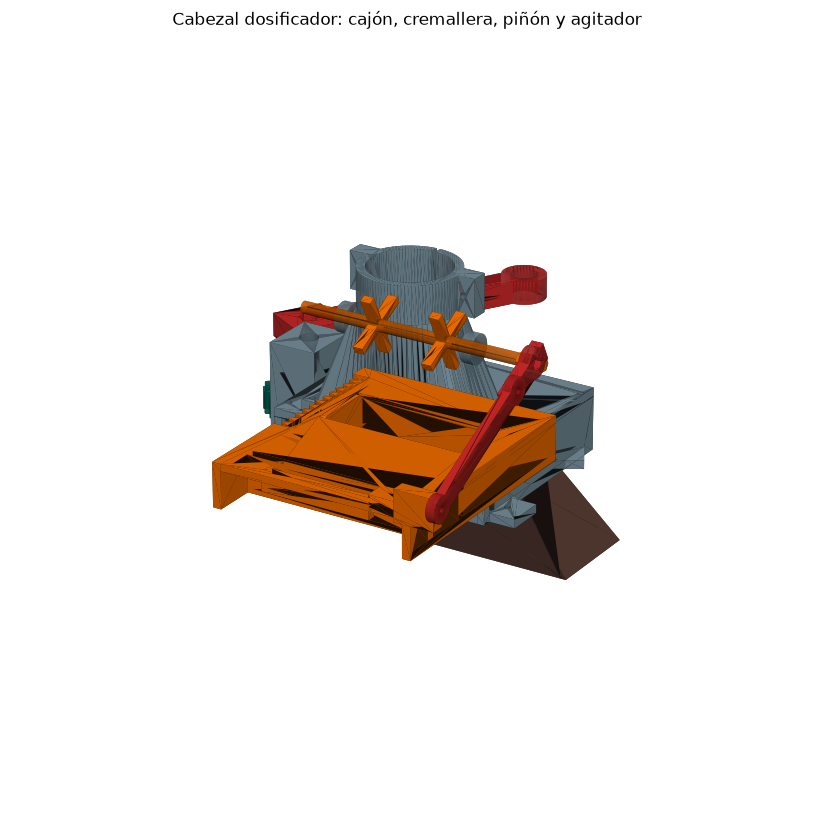
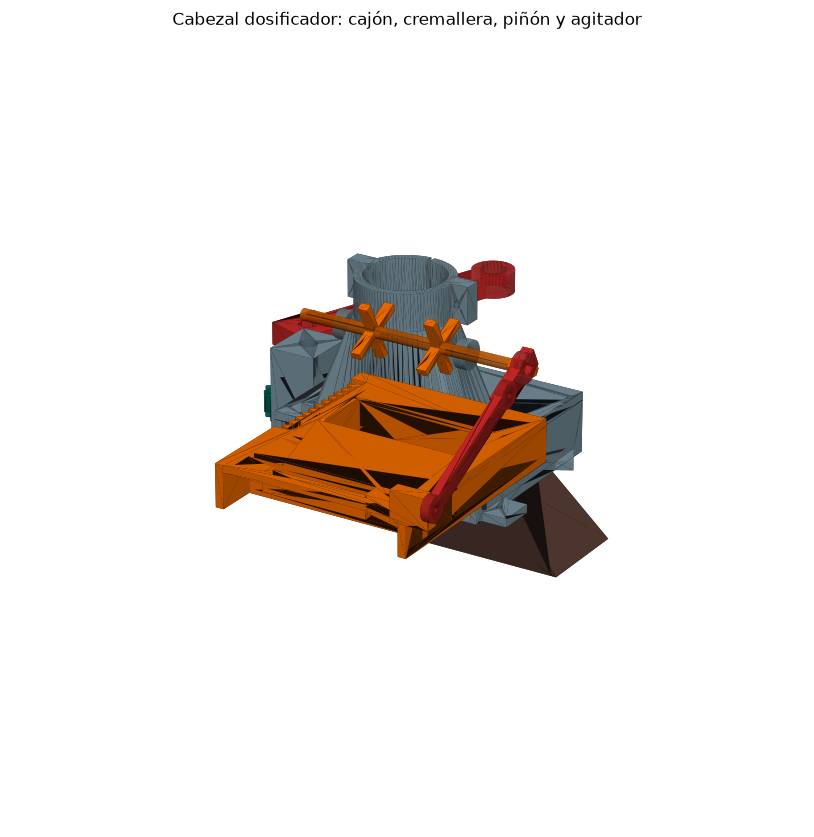
Dispensador YT0101: el barrido de la palanca cae en el sector libre entre columnas
La palanca mide 180 mm y gira en torno a un eje que está a 95 mm del centro
del aparato: su punta alcanza un radio de 275 mm, más que de sobra para
golpear dos de las tres columnas. Ahora el barrido arranca a 70° y termina a
193°, que es el hueco que dejan las columnas (a 90°, 210° y 330°).

La prueba nueva V13 barre la palanca en 13 posiciones contra columnas y
anillos. Comprobado que no es una prueba vacía: con el brazo montado a 200°
detecta 3661 mm³ de solape y a 320°, 527 mm³.

El manual avisa de esto en el paso de montaje: el hexágono del eje admite
varias posiciones y solo una es la buena.

Verificación: 16 pruebas, 0 fallas.

Claude-Session: https://claude.ai/code/session_01QuNpHEVPcv9jswwxVwCvVM

Changed region(s): [[0.2457, 0.2796, 0.7371, 0.7145], [0.7371, 0.6213, 0.7678, 0.6523], [0.7064, 0.5902, 0.7371, 0.6213]]

diff --git a/pipeline/verifica_dispensador.py b/pipeline/verifica_dispensador.py
@@ -39,6 +39,7 @@ sys.path.insert(0, str(Path(__file__).parent))
 import lib_solidos as S
 import gen_dispensador as G
 import ens_dispensador as E
+import ens_dispensador as EN
 from lib_audit import audit, load_state, now_iso, project_dir, save_state, set_gate
 
 E_PLA_MPA = 3500.0        # módulo elástico típico del PLA impreso (orden de magnitud)
@@ -263,6 +264,28 @@ def verificar(proj: Path) -> dict:
            f"con {round(vuelco_N)} N de empuje lateral el conjunto vuelca: la escuadra de muro "
            "(est_escuadra_muro) es OBLIGATORIA en la unidad de alimento")
 
+    # ---------------- V13 la palanca barre sin golpear la estructura --------
+    columnas = [m for _, m in EN.estructura(P, C, piezas, C["z_anillo_alimento"],
+                                            mensulas_z=C["z_canal_base"] + 18.0)[1]]
+    otras = [m for n, m in EN.estructura(P, C, piezas, C["z_anillo_alimento"],
+                                         mensulas_z=C["z_canal_base"] + 18.0)[0]]
+    peor_p, donde = 0.0, None
+    for k in range(13):
+        ang = C["palanca_ang_cerrado"] - 90.0 + C["palanca_barrido_deg"] * k / 12.0
+        pal = EN._t(piezas["ali_palanca"], at=(-C["x_pinon"], 0, C["z_pinon"] + 48), rz=ang)
+        for j, obst in enumerate(columnas + otras):
+            v = _vol_interseccion(pal, obst)
+            if v > peor_p:
+                peor_p, donde = v, {"paso": k, "angulo_deg": round(ang + 90, 1), "obstaculo": j}
+    prueba("V13", "La palanca barre sin golpear columnas ni anillos",
+           "PASA" if peor_p <= tol else "FALLA",
+           {"solape_maximo_mm3": round(peor_p, 1), "primer_choque": donde,
+            "barrido_deg": [C["palanca_ang_cerrado"], C["palanca_ang_abierto"]],
+            "columnas_a_deg": [90, 210, 330]},
+           f"solape ≤ {tol} mm³ en los 13 pasos del barrido",
+           "recolocar palanca_ang_cerrado para que el barrido caiga en el hueco entre columnas, "
+           "o acortar palanca_largo")
+
     # ---------------- V12 el biela-manivela del agitador cierra --------------
     r, Lb = C["manivela_radio"], C["biela_largo"]
     angs, errores = [], []
@@ -287,7 +310,6 @@ def verificar(proj: Path) -> dict:
            "recalcular manivela_radio y biela_largo desde las posiciones del pasador")
 
     # ---------------- V11 el cabezal cuelga de verdad de las columnas --------
-    import ens_dispensador as EN
     partes = dict(EN.conjunto_alimento(P, C, piezas))
     canal = partes["ali_canal_base"]
     pq = trimesh.proximity.ProximityQuery(canal)

diff --git a/pipeline/doc_dispensador.py b/pipeline/doc_dispensador.py
@@ -184,6 +184,10 @@ def memoria(P, C, hechos, ver) -> str:
       f"{C['carrera']:.0f} mm — exactamente la carrera necesaria (cavidad {do['cavidad_y']:.0f} + "
       f"tabique {do['sello_tabique']:.0f}).")
     A(f"- Ventaja mecánica de la palanca: **{C['ventaja_palanca']:.1f}:1**.")
+    A(f"- La palanca barre entre {C['palanca_ang_cerrado']:.0f}° y {C['palanca_ang_abierto']:.0f}°, dentro del")
+    A("  sector libre que dejan las tres columnas (que están a 90°, 210° y 330°).")
+    A("  No es una elección estética: con el brazo montado 130° más allá, el barrido")
+    A("  golpea la columna trasera. La prueba V13 lo comprueba en 13 posiciones.")
     A("")
     A("La cremallera va embutida en el flanco del cajón: las puntas de los dientes")
     A(f"quedan {do['cremallera_empotre']:.0f} mm por dentro del plano de deslizamiento, así el")
@@ -344,7 +348,11 @@ def ensamble(P, C, hechos, idx) -> str:
     A("3. Tapa con `ali_canal_tapa` y aprieta los cuatro M4×30.")
     A("4. Enfila `ali_eje_pinon` por la torre, monta `ali_pinon` a media altura")
     A("   (tiene que engranar con la cremallera del cajón) y fija con el pasador Ø3.")
-    A("5. Encaja `ali_palanca` en el hexágono superior del eje.")
+    A(f"5. Encaja `ali_palanca` en el hexágono superior del eje **apuntando al sector")
+    A(f"   libre entre columnas** (con el cajón dentro debe quedar a unos "
+      f"{C['palanca_ang_cerrado']:.0f}° del")
+    A("   frente, girando hacia la izquierda al tirar). Si la montas en otra posición")
+    A("   del hexágono, el brazo golpea una columna a mitad de barrido.")
     A(f"6. Mueve la palanca de tope a tope: el cajón debe recorrer {C['carrera']:.0f} mm y la")
     A("   cavidad quedar exactamente bajo la boca de carga en un extremo y sobre la")
     A("   de descarga en el otro.")

diff --git a/pipeline/ens_dispensador.py b/pipeline/ens_dispensador.py
@@ -155,8 +155,8 @@ def conjunto_alimento(P, C, piezas):
         ("ali_pinon", _color(_t(piezas["ali_pinon"], at=(-C["x_pinon"], 0, C["z_pinon"])), S.COLORES["engranaje"])),
         ("ali_eje_pinon", _color(_t(piezas["ali_eje_pinon"], at=(-C["x_pinon"], 0, C["z_pinon"] + 10)),
                                  S.COLORES["engranaje"])),
-        ("ali_palanca", _color(_t(piezas["ali_palanca"], at=(-C["x_pinon"], 0, C["z_pinon"] + 48), rz=-30),
-                               S.COLORES["palanca"])),
+        ("ali_palanca", _color(_t(piezas["ali_palanca"], at=(-C["x_pinon"], 0, C["z_pinon"] + 48),
+                                  rz=C["palanca_ang_cerrado"] - 90.0), S.COLORES["palanca"])),
         ("ali_chute", _color(_t(piezas["ali_chute"], at=(0, C["y_descarga"], z0)), S.COLORES["bandeja"])),
         ("est_collar_cuello_a", _color(_t(piezas["est_collar_cuello"], at=(0, 0, C["z_labio_alimento"] + 14)),
                                        S.COLORES["estructura"])),
@@ -258,7 +258,7 @@ def animacion(P, C, piezas, destino: Path, cuadros: int = 16) -> Path:
         cajon = _color(_t(piezas["ali_corredera"],
                           at=(0, C["y_carga"] + avance - y_cav, C["z_deslizamiento"])),
                        S.COLORES["rotor"])
-        ang = -C["palanca_barrido_deg"] / 2 + f * C["palanca_barrido_deg"]
+        ang = C["palanca_ang_cerrado"] - 90.0 + f * C["palanca_barrido_deg"]
         palanca = _color(_t(piezas["ali_palanca"], at=(-C["x_pinon"], 0, C["z_pinon"] + 48),
                             rz=ang), S.COLORES["palanca"])
         # la croqueta que va en la cavidad, dibujada como bloque testigo

diff --git a/pipeline/gen_dispensador.py b/pipeline/gen_dispensador.py
@@ -108,6 +108,12 @@ def calculos(P: dict) -> dict:
     C["x_linea_primitiva"] = round(C["corredera_ancho"] / 2.0
                                    - do["cremallera_empotre"] - do["modulo"], 2)
     C["x_pinon"] = round(C["x_linea_primitiva"] + C["pinon"]["dia_primitivo"] / 2.0, 2)
+    # Barrido de la palanca: tiene que caber en el hueco ENTRE columnas. Las
+    # tres columnas están a 90°, 210° y 330° vistas desde el eje del aparato;
+    # desde el eje del piñón (a −X) dos de ellas quedan al alcance del brazo,
+    # así que el barrido se centra en el sector libre que dejan.
+    C["palanca_ang_cerrado"] = 70.0
+    C["palanca_ang_abierto"] = round(70.0 + C["palanca_barrido_deg"], 1)
     C["y_cavidad_local"] = round(C["corredera_largo"] / 2.0 - do["frente"] - do["cavidad_y"] / 2.0, 2)
     # el piñón está fijo en y=0; la cremallera debe quedar bajo él durante TODA
     # la carrera, así que se centra en el punto medio de su recorrido

diff --git a/projects/YT0101-dispensador-canino/out/MEMORIA_DISENO.md b/projects/YT0101-dispensador-canino/out/MEMORIA_DISENO.md
@@ -1,6 +1,6 @@
 # MEMORIA DE DISEÑO — Dispensador canino YT0101
 
-Generado: 2026-07-26T07:07:37+00:00 · Capa `user` (diseño paramétrico, no medición).
+Generado: 2026-07-26T07:11:06+00:00 · Capa `user` (diseño paramétrico, no medición).
 Cada cota nace de `input/params.json`; cada dato externo está citado en
 `input/web_facts.json` con URL, fecha de acceso y cita textual.
 
@@ -114,6 +114,10 @@ rango de flujo másico: [angulo-pared-tolva-DEM-pellets](https://www.mdpi.com/20
   es manual y va a entrar polvo de croqueta: [gear_backlash_flanco](https://kingroon.com/blogs/3d-printing-guides/how-to-get-perfect-3d-printed-gears) — «a suitable backlash value could be anywhere between 0.18–0.3mm... a clearance of around 0.1–0.2 mm is a good starting point between mating gear teeth».
 - Un barrido de palanca de **123°** desplaza el cajón 59 mm — exactamente la carrera necesaria (cavidad 45 + tabique 14).
 - Ventaja mecánica de la palanca: **6.5:1**.
+- La palanca barre entre 70° y 193°, dentro del
+  sector libre que dejan las tres columnas (que están a 90°, 210° y 330°).
+  No es una elección estética: con el brazo montado 130° más allá, el barrido
+  golpea la columna trasera. La prueba V13 lo comprueba en 13 posiciones.
 
 La cremallera va embutida en el flanco del cajón: las puntas de los dientes
 quedan 2 mm por dentro del plano de deslizamiento, así el
@@ -185,7 +189,7 @@ vez de esconderse.
 
 ## 10. Resultado de la verificación
 
-**PASA_CON_ADVERTENCIAS** — 15 pruebas, 0 fallas, 2 advertencias (detalle completo en `VERIFICACION.md`).
+**PASA_CON_ADVERTENCIAS** — 16 pruebas, 0 fallas, 2 advertencias (detalle completo en `VERIFICACION.md`).
 
 | | Prueba | Resultado |
 |---|---|---|
@@ -201,6 +205,7 @@ vez de esconderse.
 | V7b | Cuello del bidón (abertura circular) sobre el criterio anti-arco | **ADVERTENCIA** |
 | V8 | Voladizos dentro de lo imprimible sin soportes | **ADVERTENCIA** |
 | V9 | Columnas y anillo soportan el bidón lleno | **PASA** |
+| V13 | La palanca barre sin golpear columnas ni anillos | **PASA** |
 | V12 | El biela-manivela del agitador cierra en toda la carrera | **PASA** |
 | V11 | Las tres ménsulas alcanzan las orejas del canal | **PASA** |
 | V10 | Bebedero de nivel constante coherente (principio de Mariotte) | **PASA** |

diff --git a/projects/YT0101-dispensador-canino/out/VERIFICACION.md b/projects/YT0101-dispensador-canino/out/VERIFICACION.md
@@ -1,8 +1,8 @@
 # Verificación funcional — YT0101-dispensador-canino
 
-Generado: 2026-07-26T07:07:31+00:00 · capa `user` (diseño, no medición).
+Generado: 2026-07-26T07:11:01+00:00 · capa `user` (diseño, no medición).
 
-**Veredicto: PASA_CON_ADVERTENCIAS** (15 pruebas, 0 fallas, 2 advertencias)
+**Veredicto: PASA_CON_ADVERTENCIAS** (16 pruebas, 0 fallas, 2 advertencias)
 
 | Prueba | Qué comprueba | Resultado |
 |---|---|---|
@@ -18,6 +18,7 @@ Generado: 2026-07-26T07:07:31+00:00 · capa `user` (diseño, no medición).
 | V7b | Cuello del bidón (abertura circular) sobre el criterio anti-arco | **ADVERTENCIA** |
 | V8 | Voladizos dentro de lo imprimible sin soportes | **ADVERTENCIA** |
 | V9 | Columnas y anillo soportan el bidón lleno | **PASA** |
+| V13 | La palanca barre sin golpear columnas ni anillos | **PASA** |
 | V12 | El biela-manivela del agitador cierra en toda la carrera | **PASA** |
 | V11 | Las tres ménsulas alcanzan las orejas del canal | **PASA** |
 | V10 | Bebedero de nivel constante coherente (principio de Mariotte) | **PASA** |
@@ -105,6 +106,13 @@ Generado: 2026-07-26T07:07:31+00:00 · capa `user` (diseño, no medición).
 - **Criterio:** factor de seguridad ≥ 3.0 en aplastamiento y pandeo
 - **Medido:** `{"carga_total_N": 205.0, "carga_por_columna_N": 68.3, "tension_MPa": 0.26, "fs_aplastamiento": 176.0, "fs_pandeo_columna_impresa": 5.0, "area_perfil_impreso_mm2": 267.3, "area_perfil_macizo_mm2": 400.0, "empuje_lateral_para_volcar_N": 72.5, "radio_base_mm": 232.2}`
 - **Acción / nota:** con 73 N de empuje lateral el conjunto vuelca: la escuadra de muro (est_escuadra_muro) es OBLIGATORIA en la unidad de alimento
+
+## V13 — La palanca barre sin golpear columnas ni anillos
+
+- **Resultado:** PASA
+- **Criterio:** solape ≤ 25.0 mm³ en los 13 pasos del barrido
+- **Medido:** `{"solape_maximo_mm3": 0.0, "primer_choque": null, "barrido_deg": [70.0, 192.9], "columnas_a_deg": [90, 210, 330]}`
+- **Acción / nota:** recolocar palanca_ang_cerrado para que el barrido caiga en el hueco entre columnas, o acortar palanca_largo
 
 ## V12 — El biela-manivela del agitador cierra en toda la carrera
 

diff --git a/projects/YT0101-dispensador-canino/out/ENSAMBLE.md b/projects/YT0101-dispensador-canino/out/ENSAMBLE.md
@@ -1,6 +1,6 @@
 # ARMADO, CALIBRACIÓN Y USO — Dispensador canino YT0101
 
-Generado: 2026-07-26T07:07:37+00:00
+Generado: 2026-07-26T07:11:06+00:00
 
 ## 1. Antes de imprimir: medir el bidón
 
@@ -47,7 +47,10 @@ La lista completa con cantidades y gramos está en `LISTA_IMPRESION.csv`.
 3. Tapa con `ali_canal_tapa` y aprieta los cuatro M4×30.
 4. Enfila `ali_eje_pinon` por la torre, monta `ali_pinon` a media altura
    (tiene que engranar con la cremallera del cajón) y fija con el pasador Ø3.
-5. Encaja `ali_palanca` en el hexágono superior del eje.
+5. Encaja `ali_palanca` en el hexágono superior del eje **apuntando al sector
+   libre entre columnas** (con el cajón dentro debe quedar a unos 70° del
+   frente, girando hacia la izquierda al tirar). Si la montas en otra posición
+   del hexágono, el brazo golpea una columna a mitad de barrido.
 6. Mueve la palanca de tope a tope: el cajón debe recorrer 59 mm y la
    cavidad quedar exactamente bajo la boca de carga en un extremo y sobre la
    de descarga en el otro.
